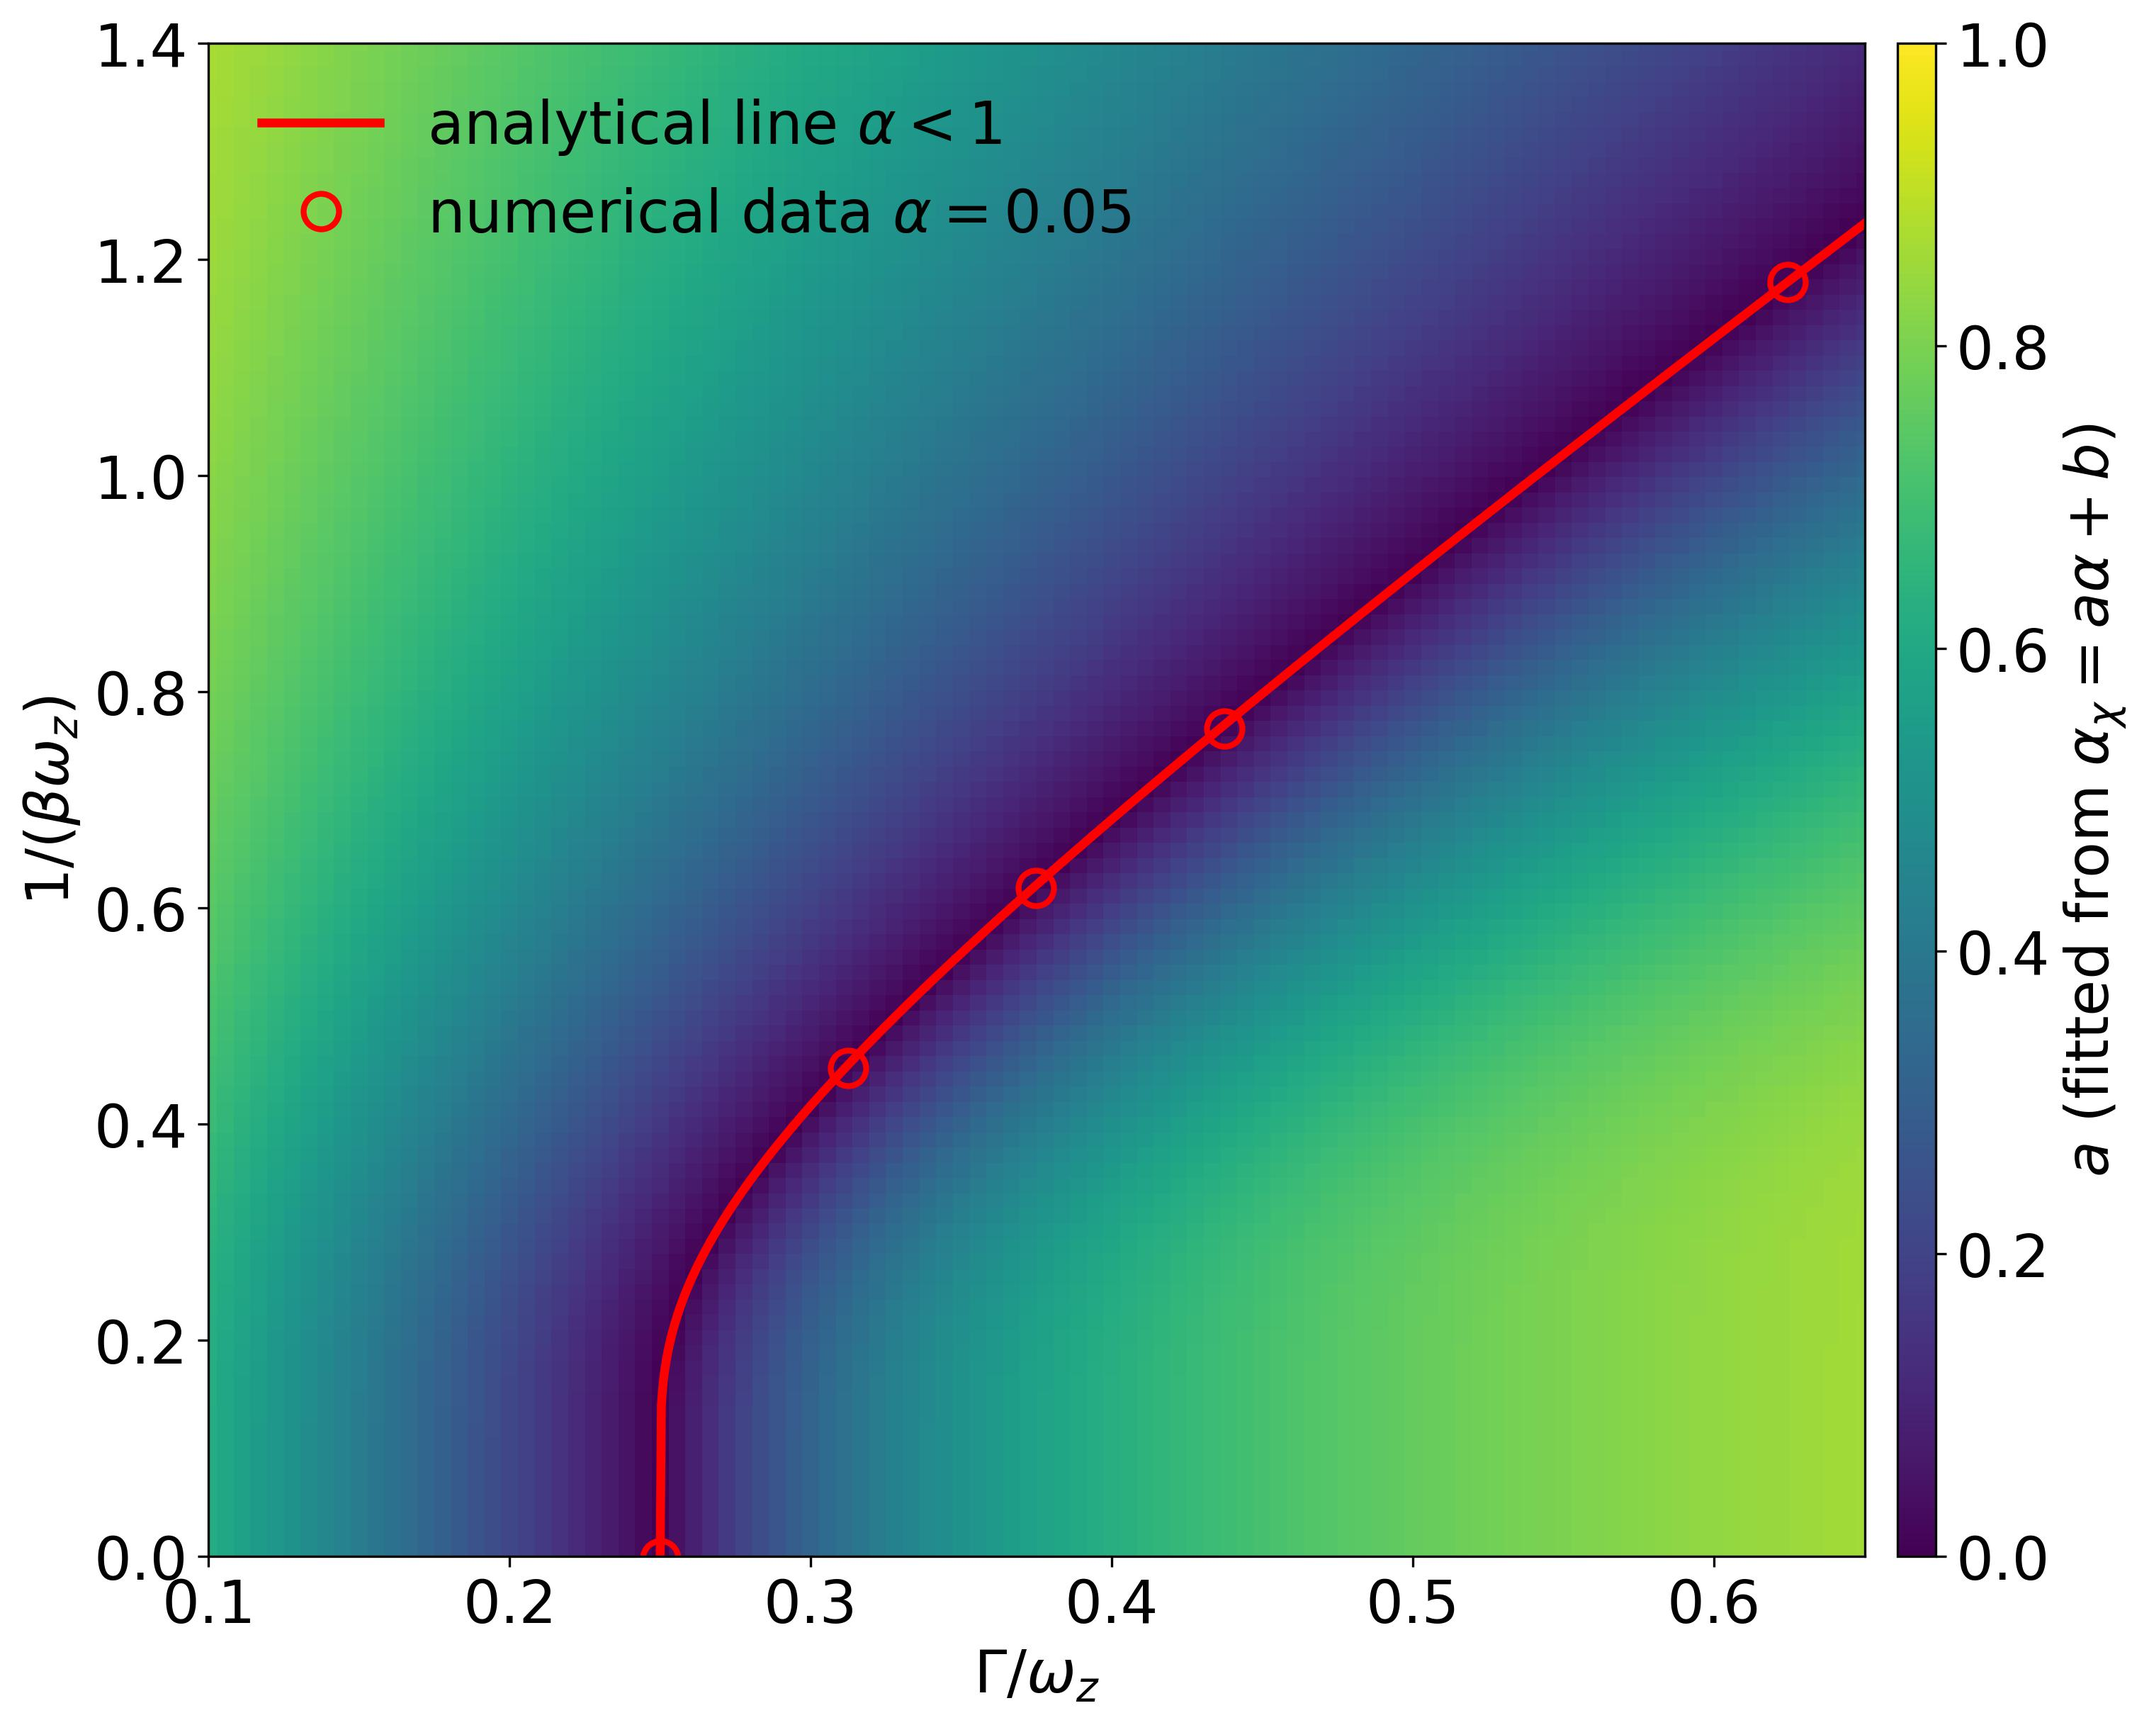
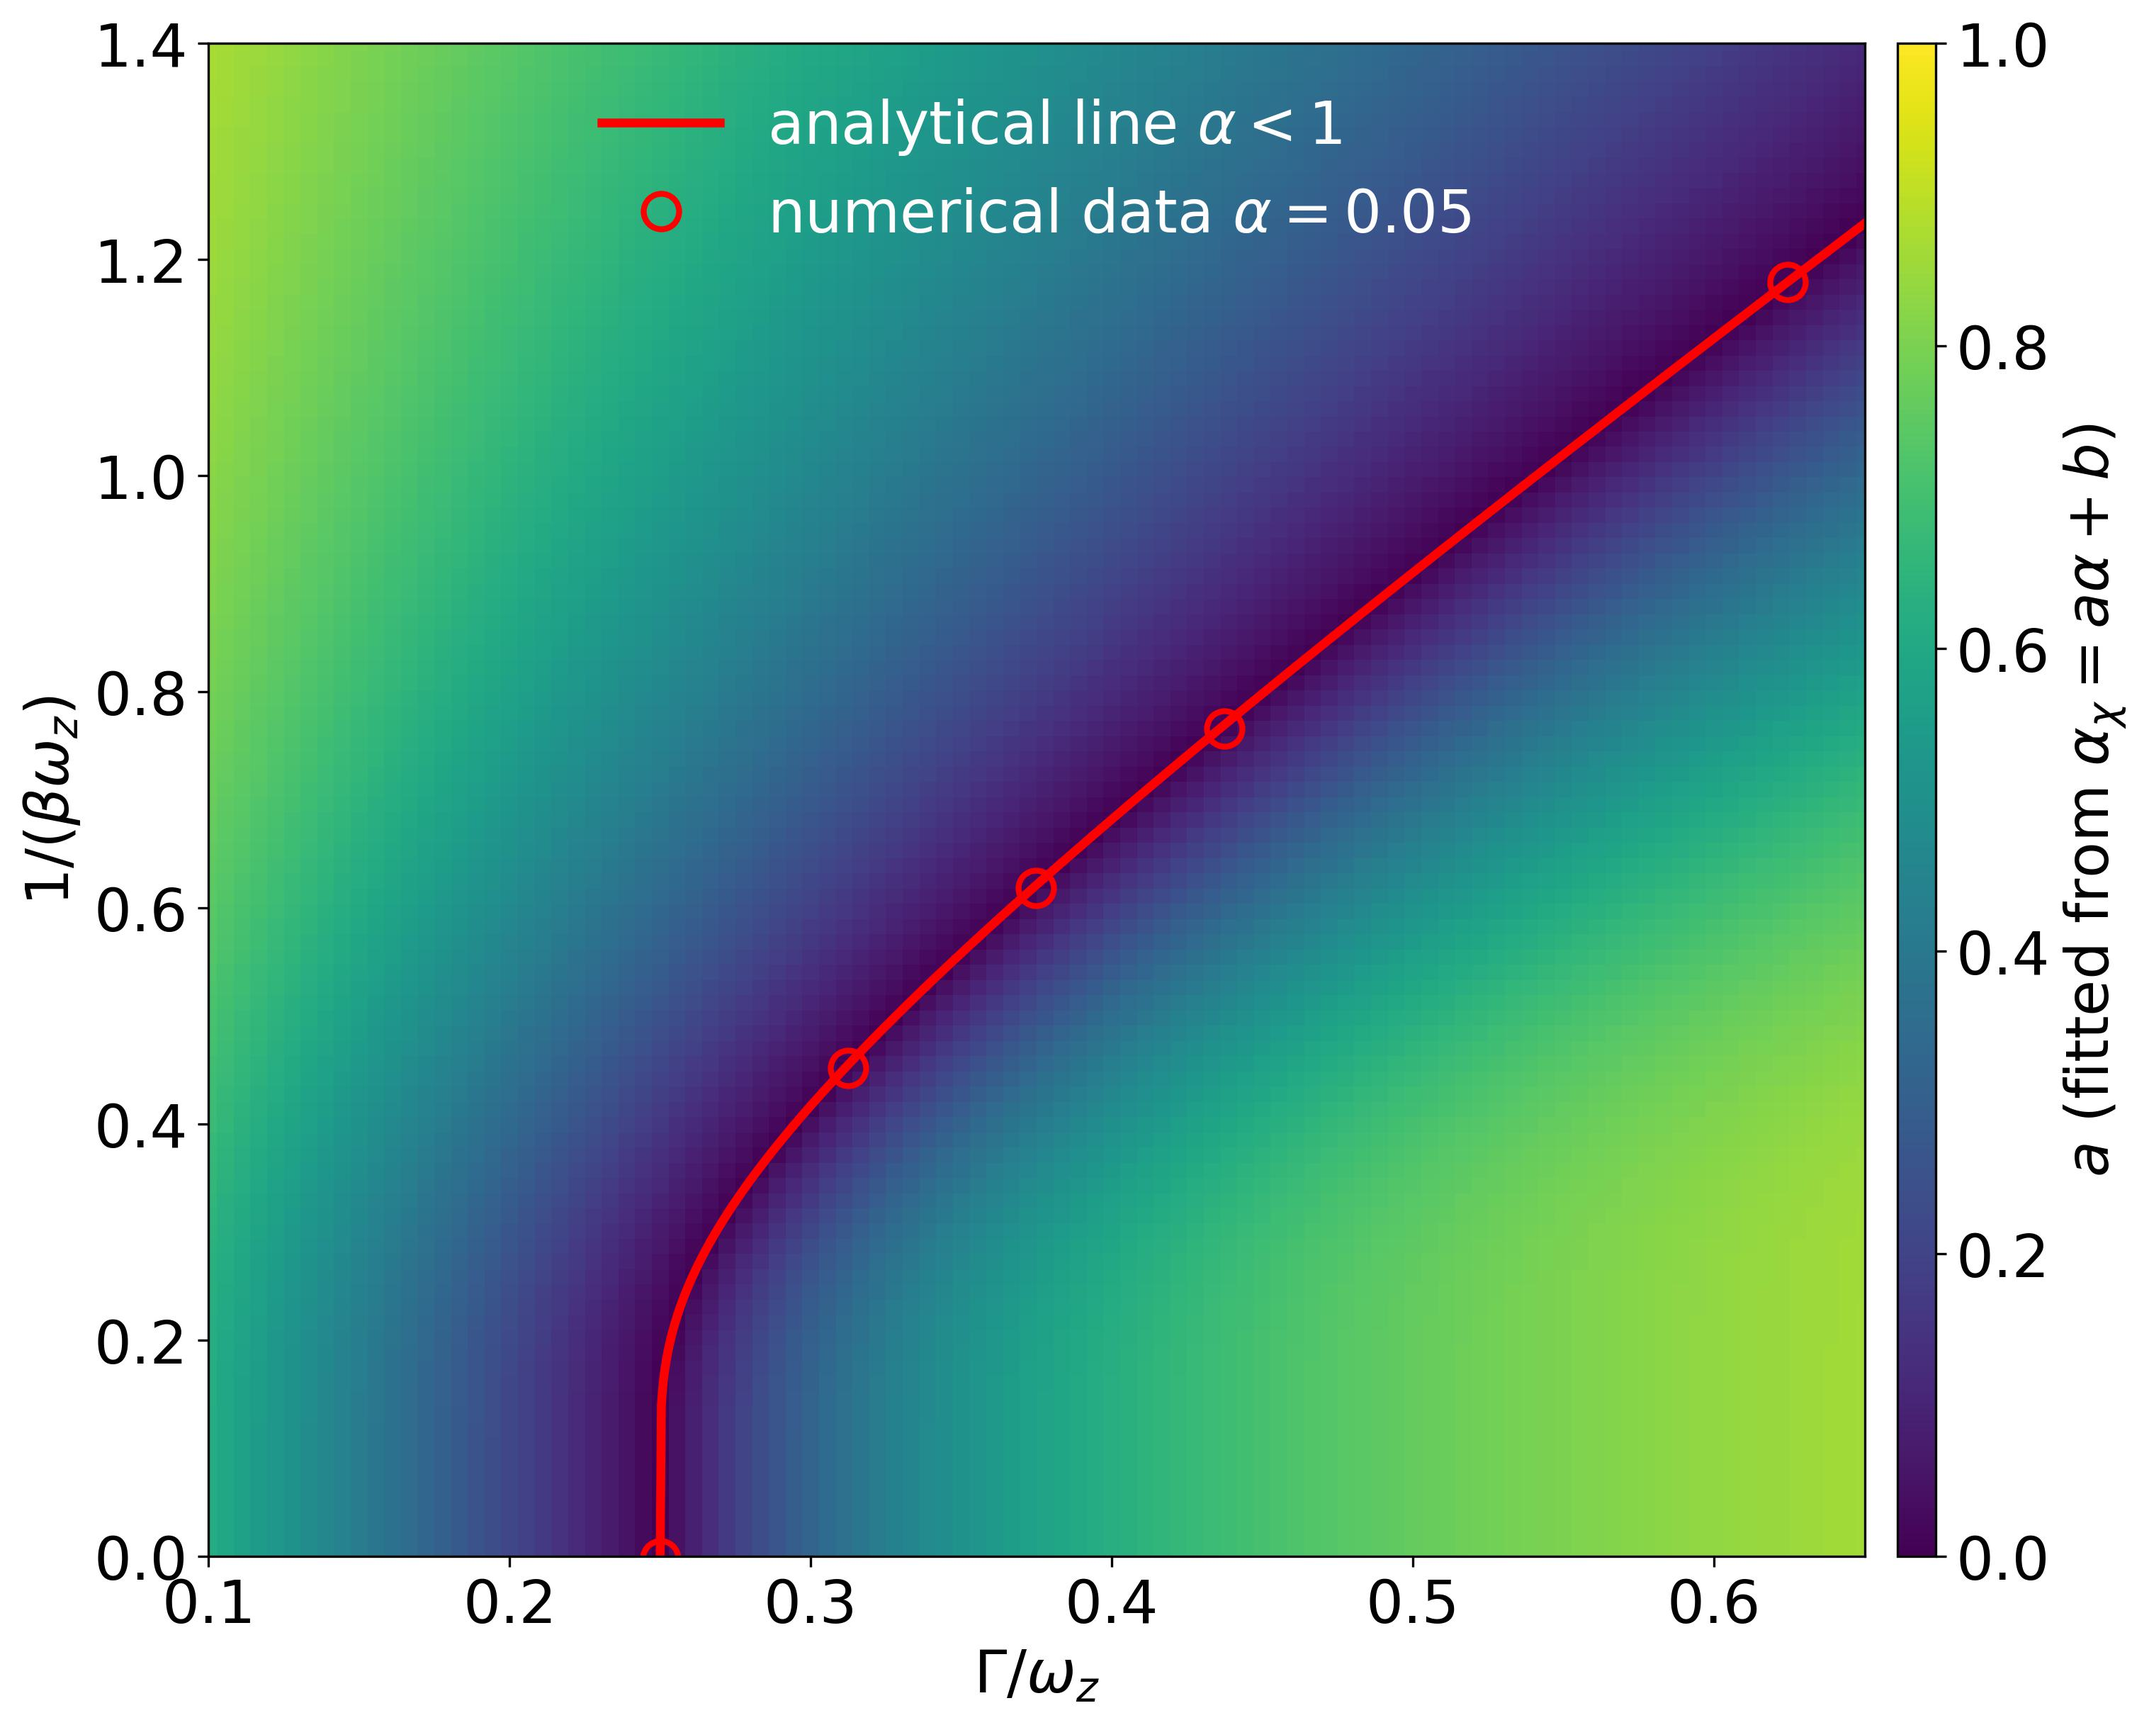
Minor changes to plot

Changed region(s): [[0.124, 0.0624, 0.6198, 0.1561], [0.6198, 0.0937, 0.6818, 0.1561]]

diff --git a/phase_diagram_plot.py b/phase_diagram_plot.py
@@ -68,5 +68,5 @@ ax.set_xlim(0.1, 0.65)
 ax.set_ylim(0.0, 1.4)
 ax.set_xlabel(r'$\Gamma / \omega_z$')
 ax.set_ylabel(r'$1/(\beta \omega_z)$')
-plt.legend(frameon=False, framealpha=0.4, facecolor='Gray', edgecolor='Gray')
+ax.legend(frameon=False, framealpha=0.4, facecolor='Gray', edgecolor='Gray', labelcolor='w', loc='upper center')
 fig.savefig('plots/phase_diagram.jpeg', dpi=300, bbox_inches='tight')

diff --git a/susceptibility_comparison_plot.py b/susceptibility_comparison_plot.py
@@ -49,7 +49,7 @@ ax.set_yscale('log')
 #ax.set_xscale('log')
 ax.set_ylabel(r'$\chi_{N/2} \omega_z $')
 ax.set_xlabel(r'$\Gamma / \omega_z$')
-ax.legend(frameon=False, title=r'$\alpha$')
+ax.legend(frameon=False, title=r'$\alpha$', labelcolor='w')
 
 if j == N//2:
     fig.savefig(f'plots/comparison_half_chain_susceptibility_{N}_{beta}.pdf', bbox_inches='tight', dpi=300)
